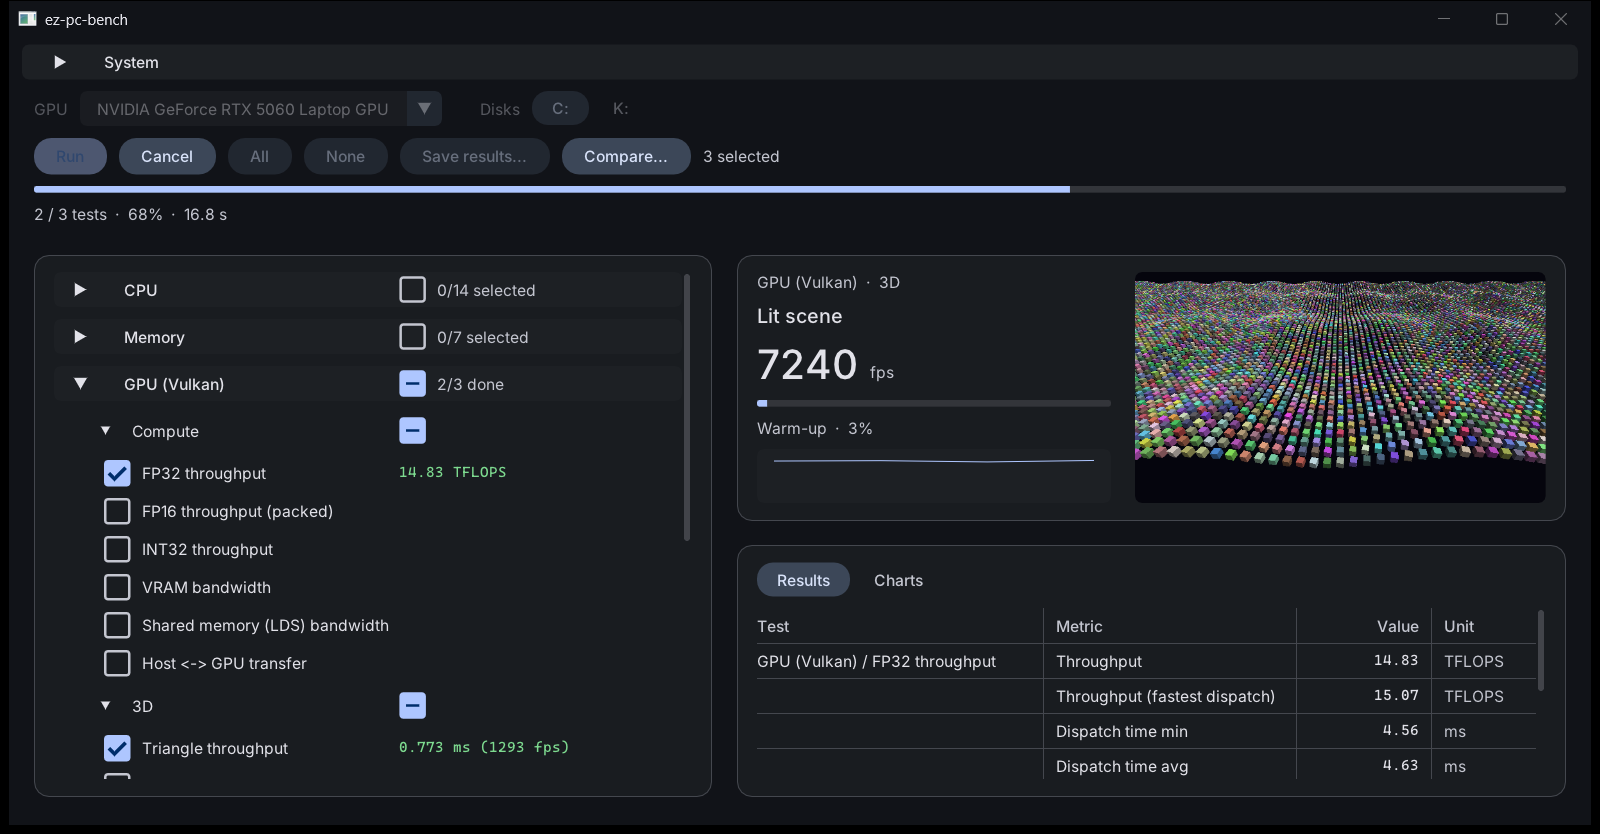
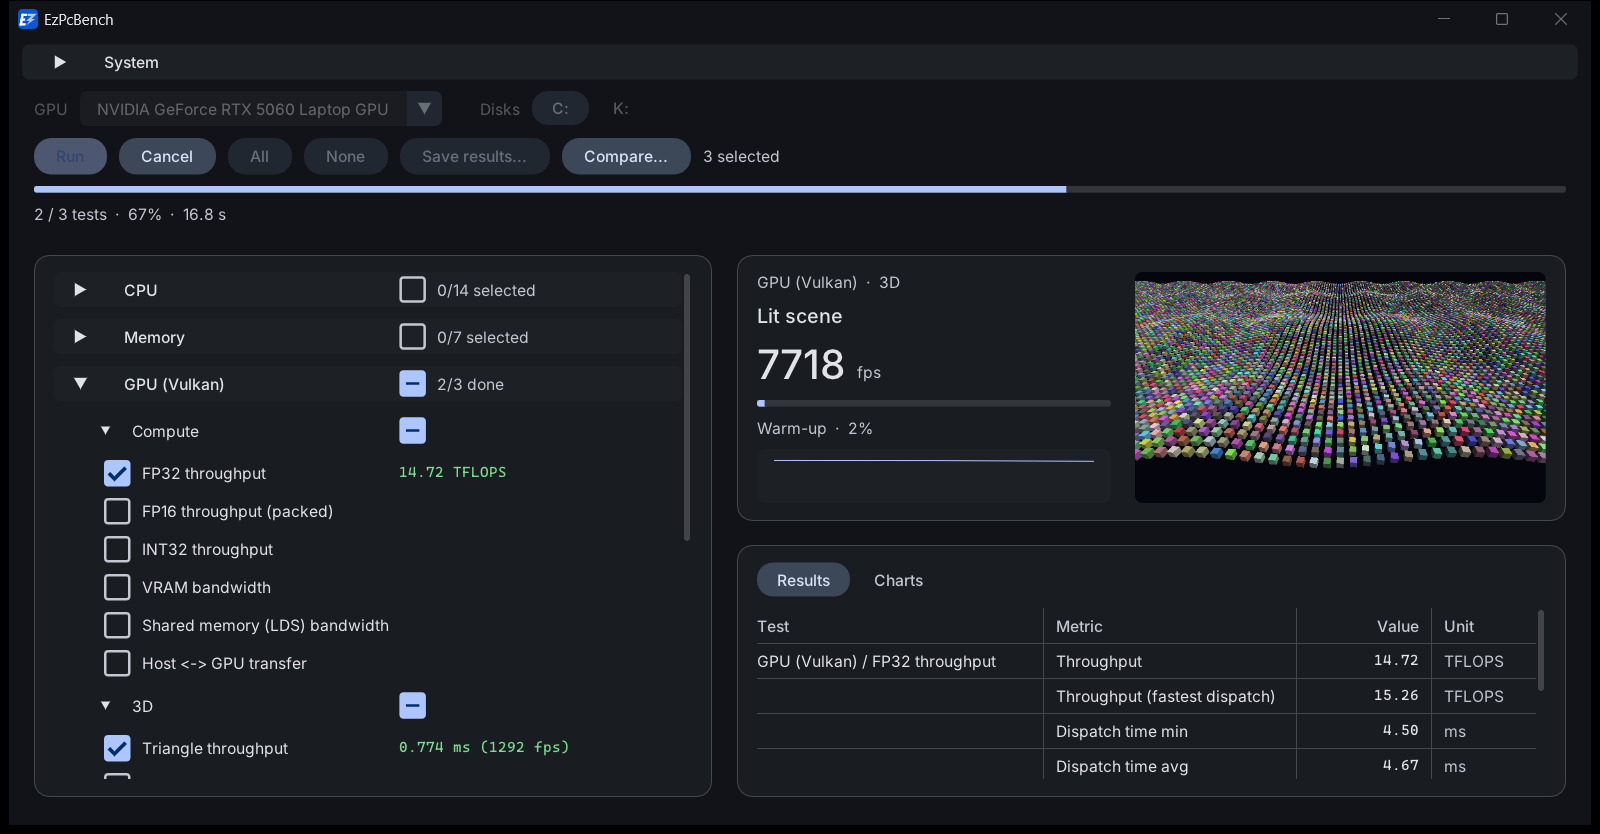
Display name EzPcBench in the app and website

diff --git a/site/index.html b/site/index.html
@@ -3,9 +3,9 @@
 <head>
 <meta charset="utf-8">
 <meta name="viewport" content="width=device-width, initial-scale=1">
-<title>ez-pc-bench</title>
+<title>EzPcBench</title>
 <meta name="description" content="A small native Windows benchmark for CPU, memory, GPU (Vulkan and Direct3D 12) and disks. Raw numbers, no scores.">
-<meta property="og:title" content="ez-pc-bench">
+<meta property="og:title" content="EzPcBench">
 <meta property="og:description" content="A small native Windows benchmark for CPU, memory, GPU (Vulkan and Direct3D 12) and disks. Raw numbers, no scores.">
 <meta property="og:image" content="img/main.png">
 <link rel="icon" href="favicon.ico" sizes="any">
@@ -114,7 +114,7 @@ footer .wrap { display: flex; gap: 16px; flex-wrap: wrap; justify-content: space
 
 <header>
   <div class="wrap">
-    <a class="logo" href="#"><img class="mark" src="favicon.svg" width="26" height="26" alt="">ez-pc-bench</a>
+    <a class="logo" href="#"><img class="mark" src="favicon.svg" width="26" height="26" alt="">EzPcBench</a>
     <nav>
       <a class="opt" href="#measures">What it measures</a>
       <a class="opt" href="#compare">Compare</a>
@@ -137,7 +137,7 @@ footer .wrap { display: flex; gap: 16px; flex-wrap: wrap; justify-content: space
     </div>
     <div class="meta">Single ~2&nbsp;MB exe, no installer &middot; Windows 10/11 x64 &middot; free and open source (MIT)</div>
     <div class="shot"><img src="img/main.png" width="1600" height="834"
-         alt="ez-pc-bench main window: test tree with suites and groups, a GPU test running with a live 3D preview, and the results table"></div>
+         alt="EzPcBench main window: test tree with suites and groups, a GPU test running with a live 3D preview, and the results table"></div>
   </div>
 
   <section id="measures">
@@ -257,7 +257,7 @@ cmake --build --preset release -- -j 6</code></pre>
 
 <footer>
   <div class="wrap">
-    <span>ez-pc-bench &middot; MIT licensed &middot; uses Dear ImGui and the Inter font</span>
+    <span>EzPcBench &middot; MIT licensed &middot; uses Dear ImGui and the Inter font</span>
     <span><a href="https://github.com/0xrsp/ez-pc-bench">Source on GitHub</a> &middot;
       <a href="https://github.com/0xrsp/ez-pc-bench/releases">Releases</a></span>
   </div>

diff --git a/src/app/main_gui.cpp b/src/app/main_gui.cpp
@@ -282,7 +282,7 @@ static void compare_open(HINSTANCE inst) {
     int w = (int)(1360 * s_dpi_scale), h = (int)(820 * s_dpi_scale);
     if (w > (work.right - work.left) * 9 / 10) w = (work.right - work.left) * 9 / 10;
     if (h > (work.bottom - work.top) * 9 / 10) h = (work.bottom - work.top) * 9 / 10;
-    s_cmp.hwnd = CreateWindowW(L"ezpcbench_compare", L"ez-pc-bench - Compare", WS_OVERLAPPEDWINDOW, CW_USEDEFAULT,
+    s_cmp.hwnd = CreateWindowW(L"ezpcbench_compare", L"EzPcBench - Compare", WS_OVERLAPPEDWINDOW, CW_USEDEFAULT,
                                CW_USEDEFAULT, w, h, nullptr, nullptr, inst, nullptr);
     if (!s_cmp.hwnd || !create_cmp_swapchain()) { compare_close(); return; }
     style_title_bar(s_cmp.hwnd);
@@ -366,7 +366,7 @@ int WINAPI wWinMain(HINSTANCE inst, HINSTANCE, PWSTR cmdline, int) {
                        CreateSolidBrush(bg_colorref()), nullptr, L"ezpcbench", app_icon(inst, true) };
     RegisterClassExW(&wc);
     wchar_t title[96];
-    swprintf(title, 96, L"ez-pc-bench%s", is_elevated() ? L" (Administrator)" : L"");
+    swprintf(title, 96, L"EzPcBench%s", is_elevated() ? L" (Administrator)" : L"");
     RECT work = {};
     SystemParametersInfoW(SPI_GETWORKAREA, 0, &work, 0);
     int win_w = (int)(1280 * s_dpi_scale), win_h = (int)(820 * s_dpi_scale);
@@ -376,7 +376,7 @@ int WINAPI wWinMain(HINSTANCE inst, HINSTANCE, PWSTR cmdline, int) {
                               nullptr, nullptr, inst, nullptr);
     style_title_bar(hwnd);
     if (!create_device(hwnd)) {
-        MessageBoxW(nullptr, L"Failed to create a Direct3D 11 device.", L"ez-pc-bench", MB_ICONERROR);
+        MessageBoxW(nullptr, L"Failed to create a Direct3D 11 device.", L"EzPcBench", MB_ICONERROR);
         return 1;
     }
     ShowWindow(hwnd, SW_SHOWDEFAULT);

diff --git a/src/core/baseline.cpp b/src/core/baseline.cpp
@@ -168,7 +168,7 @@ static bool parse_file(ToonReader* r, char* err, u32 err_size) {
             have_metrics = true;
         }
     }
-    if (strcmp(app, "ez-pc-bench") != 0 || !have_metrics) { snprintf(err, err_size, "not an ez-pc-bench results file"); return false; }
+    if (strcmp(app, "ez-pc-bench") != 0 || !have_metrics) { snprintf(err, err_size, "not an EzPcBench results file"); return false; }
     if (s_full) { snprintf(err, err_size, "too many results"); return false; }
     return true;
 }

diff --git a/src/core/compare.cpp b/src/core/compare.cpp
@@ -305,7 +305,7 @@ static bool parse_file(ToonReader* r, u32 run, char* err, u32 err_size) {
         else if (!strcmp(path, "params.gpu")) copy_str(s_file.gpu, sizeof(s_file.gpu), v);
         else if (!strcmp(path, "params.duration_ms")) s_file.duration_ms = atof(v);
     }
-    if (!s_file.have_app) { snprintf(err, err_size, "not an ez-pc-bench results file"); return false; }
+    if (!s_file.have_app) { snprintf(err, err_size, "not an EzPcBench results file"); return false; }
     return true;
 }
 

diff --git a/src/gpu/gpu_vk.cpp b/src/gpu/gpu_vk.cpp
@@ -100,8 +100,8 @@ static bool create_instance(VkCtx* v, char* error, u32 error_size) {
         return false;
     }
     VkApplicationInfo app = { VK_STRUCTURE_TYPE_APPLICATION_INFO };
-    app.pApplicationName = "ez-pc-bench";
-    app.pEngineName = "ez-pc-bench";
+    app.pApplicationName = "EzPcBench";
+    app.pEngineName = "EzPcBench";
     app.apiVersion = VK_API_VERSION_1_3;
 
     VkInstanceCreateInfo ci = { VK_STRUCTURE_TYPE_INSTANCE_CREATE_INFO };

diff --git a/src/app/compare_ui.cpp b/src/app/compare_ui.cpp
@@ -61,7 +61,7 @@ static void add_files_dialog() {
     buf[0] = 0;
     OPENFILENAMEW ofn = { sizeof(ofn) };
     ofn.hwndOwner = (HWND)ImGui::GetMainViewport()->PlatformHandleRaw;
-    ofn.lpstrFilter = L"ez-pc-bench results (*.toon.txt)\0*.toon.txt\0All files\0*.*\0";
+    ofn.lpstrFilter = L"EzPcBench results (*.toon.txt)\0*.toon.txt\0All files\0*.*\0";
     ofn.lpstrFile = buf;
     ofn.nMaxFile = ARRAY_COUNT(buf);
     ofn.lpstrInitialDir = dir;
